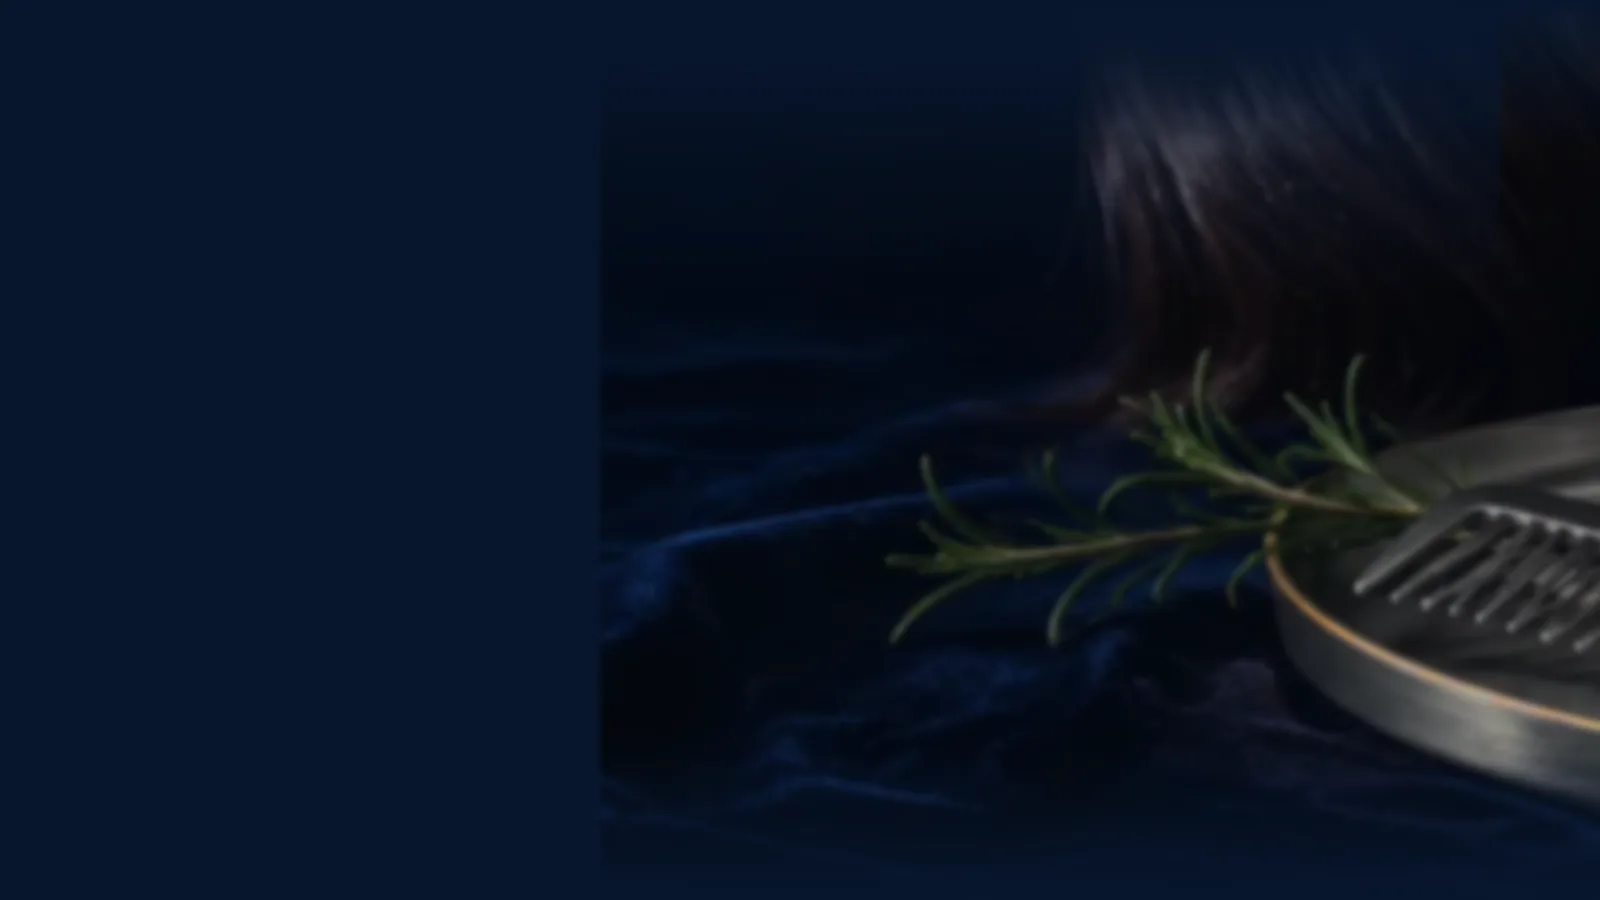
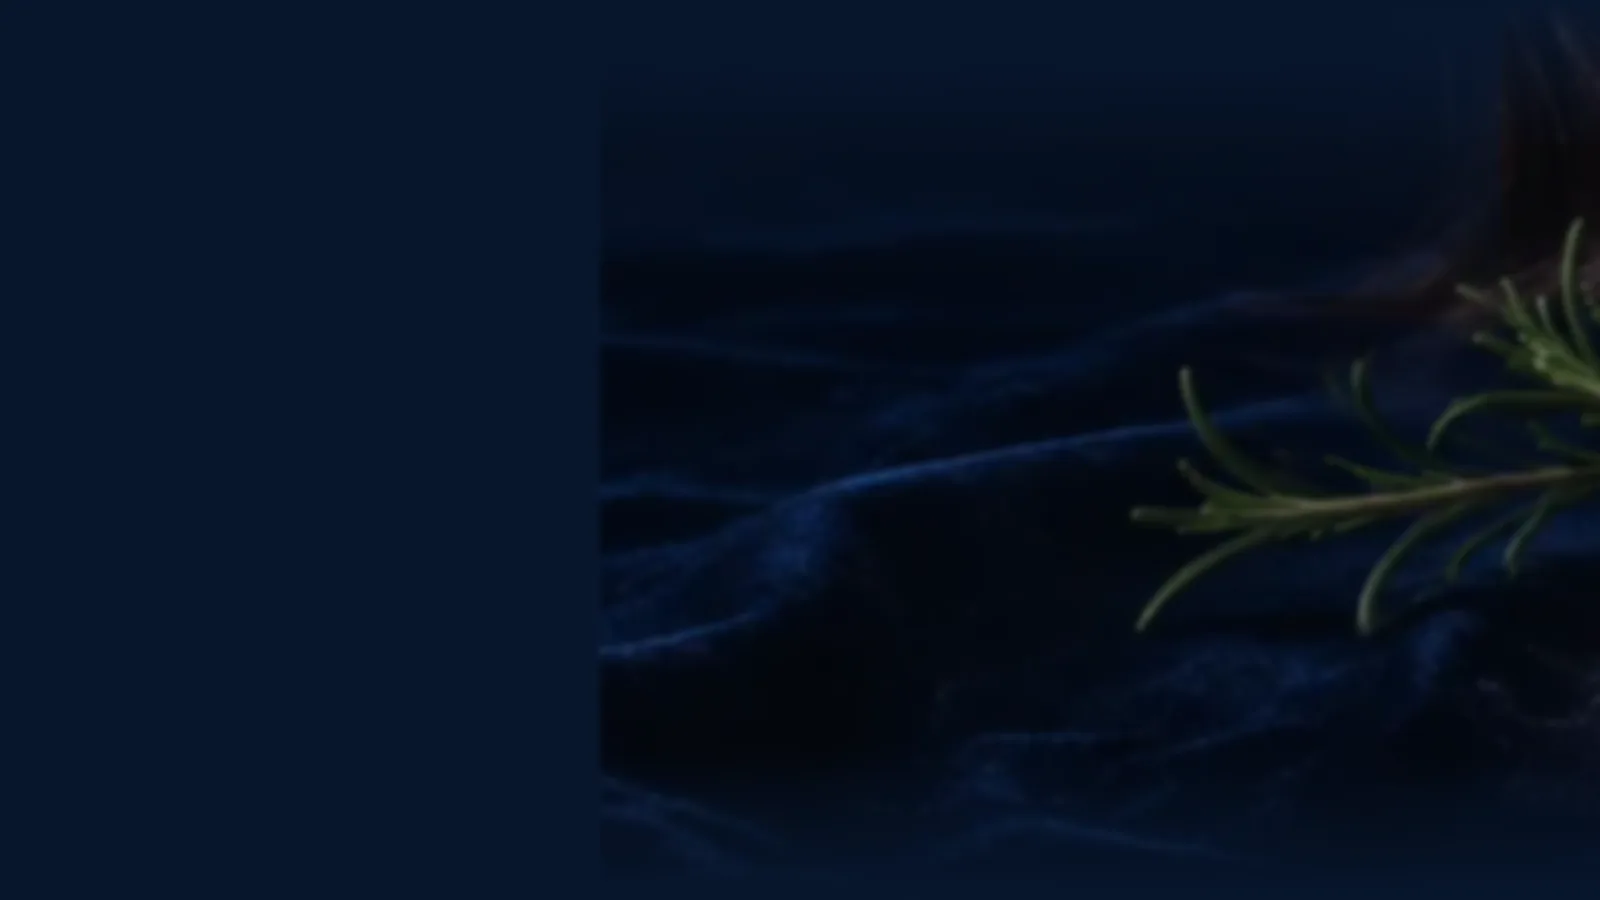
hair-scalp: четыре правки по разбору Codex
1. Мобильная сцена гасилась до 2.8%. Сплошная шторка 0.86 поверх сцены 0.2
   давала вклад кадра 0.2 × 0.14. Фон был, но его не было видно — Codex
   замерил это дважды. Теперь шторка вертикальная: плотный бархат там, где
   идёт текст, открытый кадр ниже, у плашек и кнопки. Сцена 0.62, сдвинута
   вправо — сюжет лежит в правой части файла. Замер полосы под плашками на
   390: разброс пикселей 20.6/21.1/19.5 против ~0 у плоской заливки.

2. Манифест приписывал мозаикам hair-shelf восемь компаний. В скрипте их
   шесть: CK REGEON, DREAMCOS, HANSCOS, RNH BIO, SANTE, SkinRoom. Записано
   как есть, с явной оговоркой, что снимков DONGDONGGURIMOO и Sunpure по
   волосам у нас нет.

3. Отчёт говорил «+1 внутренняя ссылка». Тегов <a> в main стало 28 против
   26 на боевом, то есть +2: /#ondemand и /catalog/cosmetics/. Уникальных
   адресов при этом +1, потому что /#ondemand уже был на странице. Впредь
   привожу оба числа.

4. За блоком DONGDONGGURIMOO стоял корень солодки. Я вывел его из фразы про
   корейскую фитотерапию в описании HEEYUL, но солодки в данных компании нет
   ни в каком виде, а на экране корень занимал половину именно её блока —
   догадка читалась как факт о компании. Заменено серебряным подносом с
   гребнем. По той же причине заменён кадр за RNH BIO: семена бабчи —
   узнаваемое сырьё, которого в их данных нет; теперь цветы без корня.

Введено правило: узнаваемое сырьё за блоком компании допускается только
[…]

diff --git a/src/styles/beauty.css b/src/styles/beauty.css
@@ -767,9 +767,23 @@ body[data-theme='beauty'] .bsc--company::after {
   background: linear-gradient(90deg, rgba(11,27,53,0.94) 0%, rgba(11,27,53,0.84) 40%, rgba(11,27,53,0.5) 66%, rgba(11,27,53,0.2) 88%, rgba(11,27,53,0.08) 100%);
 }
 @media (max-width: 900px) {
-  /* На узком экране текст и плашки занимают всю ширину — шторка сплошная. */
-  body[data-theme='beauty'] .bsc--company::after { background: rgba(11, 27, 53, 0.86); }
-  body[data-theme='beauty'] .bsc--company .bsc-scene { opacity: 0.2; }
+  /* Сплошная шторка 0.86 поверх сцены 0.2 давала вклад кадра около 2.8% —
+     Codex 07.09.2026 замерил это дважды. Фон был, но его не было видно.
+     Теперь шторка вертикальная: плотный бархат там, где идёт текст, и
+     открытый кадр ниже, у плашек товара и кнопки. Плашки непрозрачные, им
+     шторка не нужна. Кадр сдвинут вправо: сюжет лежит в правой части файла,
+     и при узком экране в окно попадала бы пустая левая половина. */
+  body[data-theme='beauty'] .bsc--company::after {
+    background: linear-gradient(180deg,
+      rgba(11, 27, 53, 0.93) 0%,
+      rgba(11, 27, 53, 0.88) 34%,
+      rgba(11, 27, 53, 0.62) 62%,
+      rgba(11, 27, 53, 0.34) 100%);
+  }
+  body[data-theme='beauty'] .bsc--company .bsc-scene {
+    opacity: 0.62;
+    background-position: 78% center;
+  }
 }
 body[data-theme='beauty'] .hs-b__nm {
   color: var(--b-ink) !important;

diff --git a/docs/IMAGERY-MANIFEST.md b/docs/IMAGERY-MANIFEST.md
@@ -13,14 +13,14 @@
 | `oemline-1600.webp`, `oemline-900.webp` | `generated-editorial` | там же, мастер `oem-odm-desktop-codex-v1.png`, SHA-256 `35aa02b0…3860f856` | общий рассказ о контрактном производстве. **Нельзя** подписывать как завод или лабораторию конкретного поставщика |
 | `brands.webp`, `pro.webp`, `actives.webp`, `packaging.webp`, `care.webp`, `launch.webp` | `official-derived` | мозаика из настоящих снимков товара поставщиков, собирается `scripts/beauty-scenes.mjs` из `public/img/suppliers` | фон раздела. Кадры настоящие, но смешаны из разных компаний, поэтому подписывать конкретной маркой нельзя |
 | `company-ck-regeon.webp` (21 KB, SHA-256 `a8151bfe6717…`) | `generated-editorial` | вырез из `hair-1600.webp`: поднос с ампулой и пипеткой | подложка блока компании на `/catalog/hair-scalp/`. **Нельзя** подписывать как съёмку этой компании, её товара или её производства |
-| `company-dongdonggurimoo.webp` (25 KB, SHA-256 `07e37274cf5a…`) | `generated-editorial` | вырез из `licorice-900.webp`: корень солодки | подложка блока компании на `/catalog/hair-scalp/`. **Нельзя** подписывать как съёмку этой компании, её товара или её производства |
+| `company-dongdonggurimoo.webp` (20 KB, SHA-256 `790b7cee7e21…`) | `generated-editorial` | вырез из `hair-1600.webp`: серебряный поднос и гребень | подложка блока компании на `/catalog/hair-scalp/`. **Нельзя** подписывать как съёмку этой компании, её товара или её производства |
 | `company-dreamcos.webp` (18 KB, SHA-256 `5068c6bf994a…`) | `generated-editorial` | вырез из `licorice-900.webp`: зелёные листья | подложка блока компании на `/catalog/hair-scalp/`. **Нельзя** подписывать как съёмку этой компании, её товара или её производства |
-| `company-hanscos.webp` (14 KB, SHA-256 `190f8853e491…`) | `generated-editorial` | вырез из `hair-1600.webp`: гребень и розмарин | подложка блока компании на `/catalog/hair-scalp/`. **Нельзя** подписывать как съёмку этой компании, её товара или её производства |
-| `company-rnh-bio.webp` (24 KB, SHA-256 `5c4fcaac7fa8…`) | `generated-editorial` | вырез из `babchi-900.webp`: семена бабчи и цветок | подложка блока компании на `/catalog/hair-scalp/`. **Нельзя** подписывать как съёмку этой компании, её товара или её производства |
+| `company-hanscos.webp` (12 KB, SHA-256 `6c61de3dfc5b…`) | `generated-editorial` | вырез из `hair-1600.webp`: розмарин на бархате | подложка блока компании на `/catalog/hair-scalp/`. **Нельзя** подписывать как съёмку этой компании, её товара или её производства |
+| `company-rnh-bio.webp` (17 KB, SHA-256 `6a3291a0bfa1…`) | `generated-editorial` | вырез из `turmeric-900.webp`: цветы и листья, без корня | подложка блока компании на `/catalog/hair-scalp/`. **Нельзя** подписывать как съёмку этой компании, её товара или её производства |
 | `company-sante.webp` (13 KB, SHA-256 `b03367fd61b6…`) | `generated-editorial` | вырез из `hair-1600.webp`: волна волос | подложка блока компании на `/catalog/hair-scalp/`. **Нельзя** подписывать как съёмку этой компании, её товара или её производства |
 | `company-skinroom.webp` (24 KB, SHA-256 `6151fbe1e8da…`) | `generated-editorial` | вырез из `babchi-900.webp`: золотой папоротник | подложка блока компании на `/catalog/hair-scalp/`. **Нельзя** подписывать как съёмку этой компании, её товара или её производства |
 | `company-sunpure.webp` (26 KB, SHA-256 `6dae7d47d7ff…`) | `generated-editorial` | вырез из `turmeric-900.webp`: корень куркумы | подложка блока компании на `/catalog/hair-scalp/`. **Нельзя** подписывать как съёмку этой компании, её товара или её производства |
-| `hair-shelf-a.webp` (SHA-256 `11bc21232c18…`), `hair-shelf-b.webp` (SHA-256 `df30800022f4…`) | `official-derived` | мозаика из настоящих снимков средств для волос и кожи головы восьми компаний подборки, собирается `scripts/hair-scenes.mjs`; список кадров перечислен в самом скрипте | фон разделов страницы `/catalog/hair-scalp/`. Кадры настоящие, но смешаны из разных компаний, поэтому подписывать конкретной маркой нельзя |
+| `hair-shelf-a.webp` (SHA-256 `11bc21232c18…`), `hair-shelf-b.webp` (SHA-256 `df30800022f4…`) | `official-derived` | мозаика из настоящих снимков средств для волос и кожи головы **шести из восьми** компаний подборки — CK REGEON, DREAMCOS, HANSCOS, RNH BIO, SANTE, SkinRoom; собирается `scripts/hair-scenes.mjs`, список кадров перечислен в самом скрипте. Подтверждённых снимков по волосам у DONGDONGGURIMOO и Sunpure нет, и в этих мозаиках их нет | фон разделов страницы `/catalog/hair-scalp/`. Кадры настоящие, но смешаны из разных компаний, поэтому подписывать конкретной маркой нельзя |
 
 Мастер-PNG хранятся вне сайта, в
 `AI_COORDINATION/Codex/evidence/T-20260906-007/image-candidates/`, и в сборку не
@@ -48,9 +48,18 @@
 `hair-1600.webp` и три ботанических кадра сырья. Все четыре сняты на одном и том
 же синем бархате, поэтому кадры разные, а серия одна.
 
-Два соответствия неслучайны и объяснимы: Sunpure поставляет производные куркумы,
-а линия HEEYUL компании DONGDONGGURIMOO построена на корейской фитотерапии —
-отсюда солодка. Остальные распределены так, чтобы соседние блоки не были похожи.
+**Правило соответствия.** Узнаваемое сырьё за блоком компании допускается только
+там, где оно подтверждено данными самой компании. Такой случай один: Sunpure —
+куркума, у них в каталоге прямо есть tetrahydrocurcumin и turmeric oil. За
+остальными блоками стоят нейтральные сюжеты: инструмент, волосы, бархат,
+декоративная листва, золочёный папоротник.
+
+Правило появилось после разбора Codex 07.09.2026. За блоком DONGDONGGURIMOO
+стоял корень солодки: я вывел его из фразы про корейскую фитотерапию в описании
+линии HEEYUL. Солодки в данных компании нет ни в каком виде, а на экране корень
+занимал половину именно её блока — то есть моя догадка читалась как факт о
+компании. По той же причине заменён кадр за RNH BIO: семена бабчи — узнаваемое
+сырьё, которого в их данных нет.
 
 Почему не товар самой компании: первая версия собиралась из снимков её товара.
 На бархате они читались серой плитой — у товарной съёмки светлый фон, и размытие
